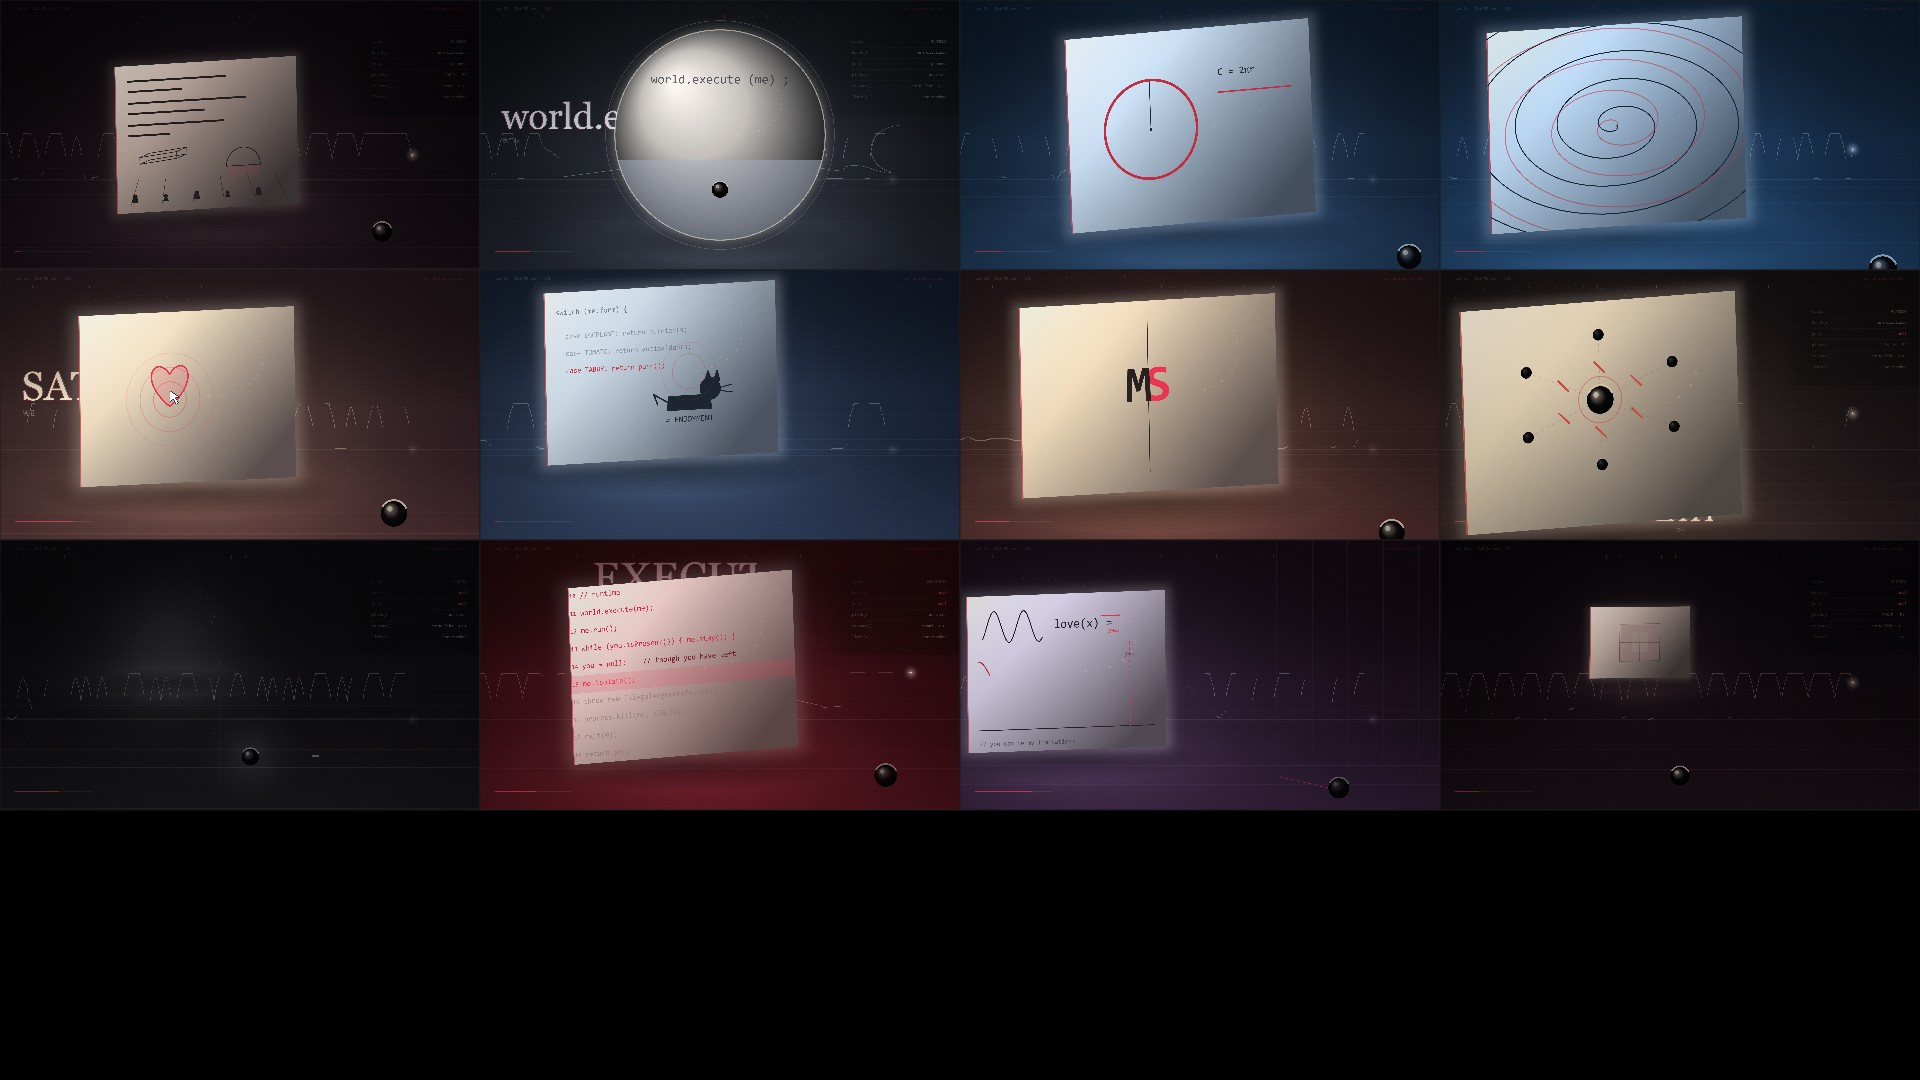
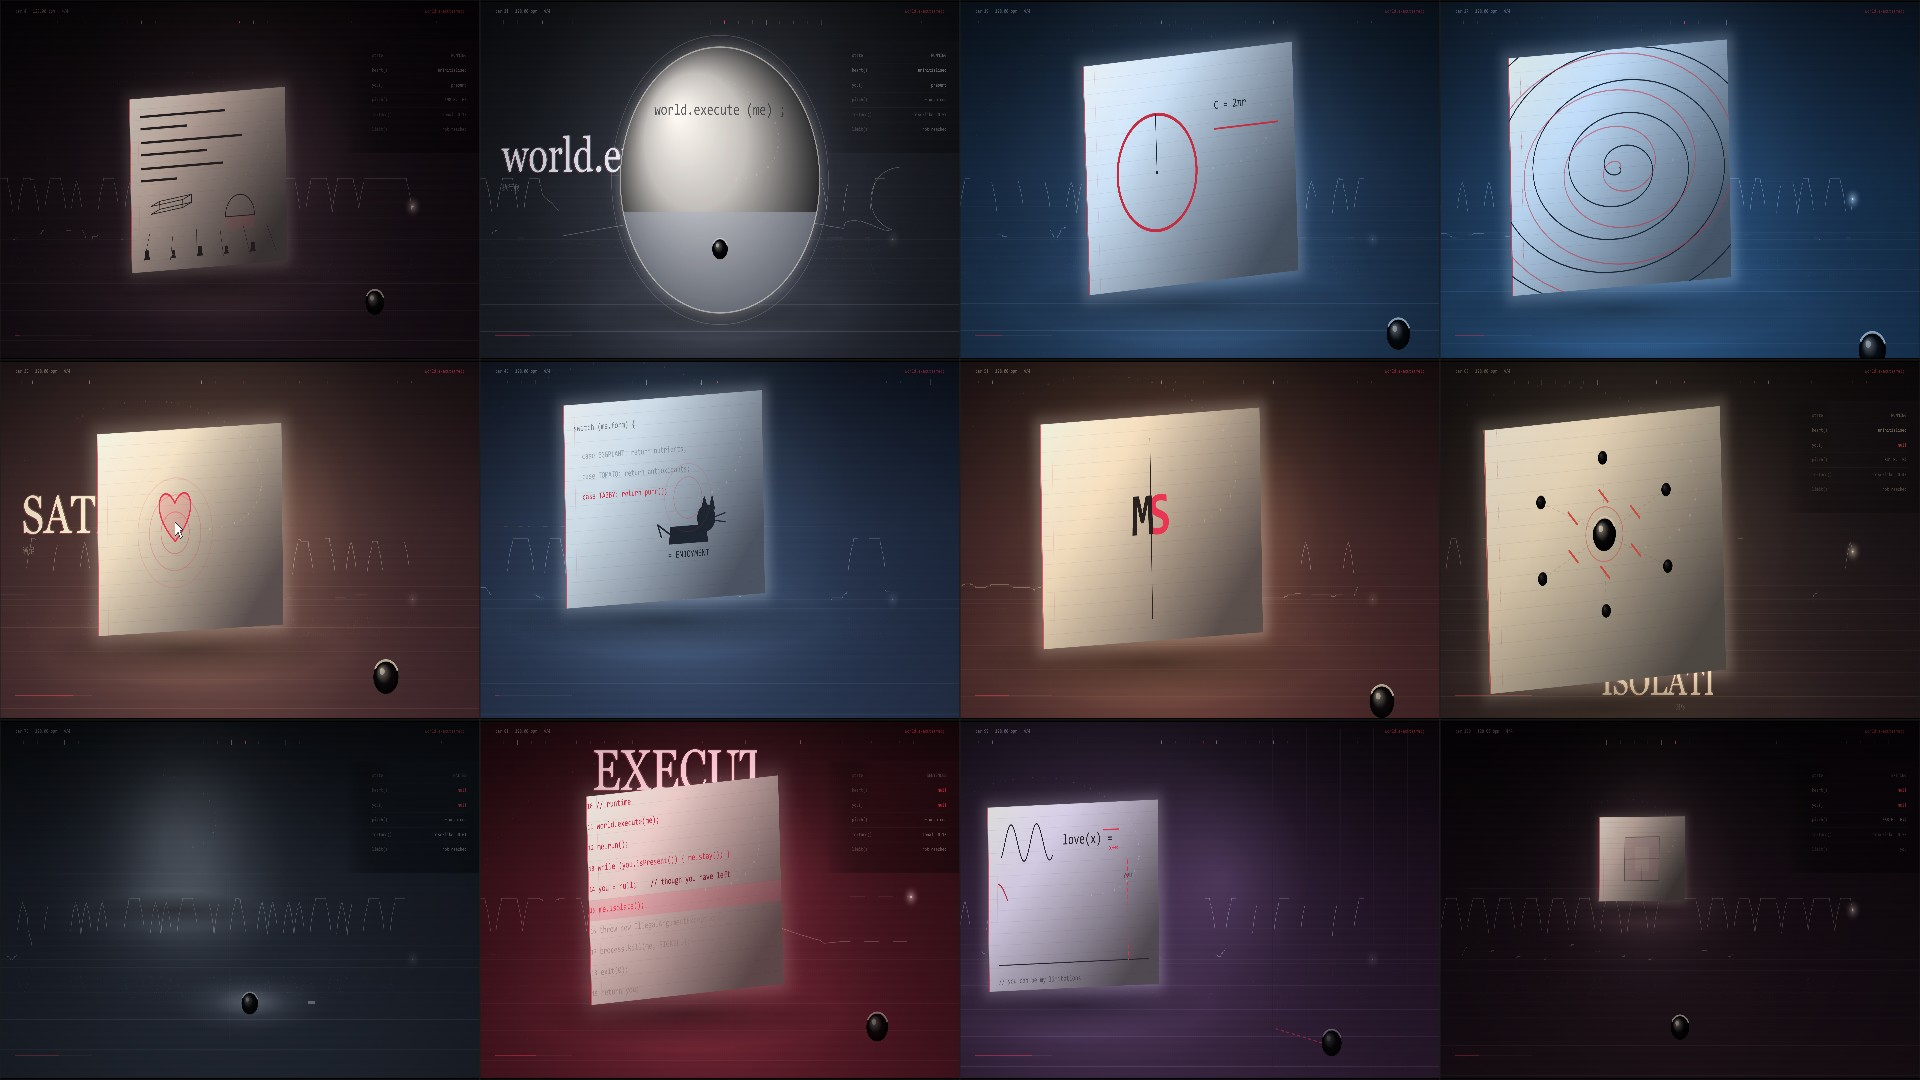
Let the floor disagree with the paper, and let the paper admit it is paper
Three things the render showed that the code did not.

The last source of flatness was structural: the floor grid lived in the design space, so
applyCamera scaled it along with the sheet and the two could never disagree about how the camera
moved - and a room in which nothing disagrees is a picture with no depth in it. The hall now
belongs to mv.js's drawRoom(t, cam), drawn in screen space outside the sheet's matrix: the
vanishing point answers cam.x, the horizon answers cam.y and cam.z, and the transverse bands take
their phase from cam.z, so a push-in makes the ground slide toward the lens. What stays in room()
is the paper's own light pool and its contact shadow - those travel with the sheet, which is
exactly the point: the sheet is an object standing in that room. Two seams closed by looking: the
sky and the floor now meet at one identical colour at the horizon, and the fan lines dropped from
0.3 to 0.13 because at full strength they burst into a starburst behind the board.

Shrinking the board to 0.76x0.84 gave the room air but turned the sparse shots - the S/M swap is
two letters and a line - back into a grey card. The fix was to stop hiding what it is: 16 rules at
7.5% ink and a red margin line. It adds no information and competes with nothing, and the sheet
reads as paper again.

The 131-147 s cell was the darkest thing in the film and had no reason to be. dusk came up off
[…]

diff --git a/mv/scenes.js b/mv/scenes.js
@@ -253,24 +253,10 @@ function room(g, col, F, t, L, o) {
   beam.addColorStop(1, 'rgba(0,0,0,0)');
   g.fillStyle = beam; g.fillRect(0, 0, DW, DH);
   g.restore();
-  /* the floor is a plane with a vanishing point, not a line. Head-on, one horizontal rule made
-     every shot the same flat stage; giving the ground a horizon lets the page and the node stand
-     at different distances from the lens, which is what the room has been missing. */
-  const hy = DH * 0.5, vpx = DW * 0.5;
-  g.strokeStyle = rgba(warm, 0.16 + col.lum * 0.13); g.lineWidth = 1.2;
-  for (let i = 1; i <= 13; i++) {
-    const u = i / 13, y = hy + (DH - hy) * u * u;
-    g.globalAlpha = u * u; G.line(g, 0, y, DW, y);
-  }
-  for (let i = -6; i <= 6; i++) {
-    /* the fan lines are the room's only straight perspective, so they have to stop short of the
-       frame edge — drawn full length they wireframe the whole picture and out-shout the diagram */
-    const run = i * DW * 0.19;
-    g.globalAlpha = 0.3 * (1 - Math.abs(i) / 7);
-    G.line(g, vpx, hy, vpx + run * 0.62, DH * 0.94);
-  }
-  g.globalAlpha = 1;
-  /* the sheet's light on the ground, and the shadow it casts back into */
+  /* the ground itself belongs to mv.js's hall, which is drawn in screen space so it can disagree
+     with the sheet about how the camera moved. What stays here is the paper's **own** light on the
+     floor, and the shadow under it — those travel with the sheet, which is what makes it an object
+     standing in that room rather than a card in front of a backdrop. */
   const base = Math.min(DH - 6, L.y + L.h);
   g.save(); g.globalCompositeOperation = 'lighter';
   const pool = g.createRadialGradient(cx, base, 0, cx, base, L.w * 1.1);
@@ -288,10 +274,6 @@ function room(g, col, F, t, L, o) {
   g.translate(cx, base); g.scale(1, 0.16); g.translate(-cx, -base);
   g.fillRect(cx - L.w * 0.62, base - L.w * 0.62, L.w * 1.24, L.w * 1.24);
   g.restore();
-  /* the far wall: the light dies before it reaches the top of the room */
-  const wall = g.createLinearGradient(0, 0, 0, hy);
-  wall.addColorStop(0, rgba(col.room0, 0.85)); wall.addColorStop(1, 'rgba(0,0,0,0)');
-  g.fillStyle = wall; g.fillRect(0, 0, DW, hy);
 }
 
 function page(g, col, L, o) {
@@ -310,7 +292,7 @@ function page(g, col, L, o) {
   const turn = side * 0.05 + (seed - 0.5) * 0.085 + (L.h / L.w - 0.55) * 0.04;
   const lean = -0.03 - side * 0.05 + (seed - 0.5) * 0.05;
   g.translate(mcx, mcy); g.transform(1, lean, 0, 1, 0, 0); g.rotate(turn);
-  g.scale(0.84, 0.9); g.translate(-mcx, -mcy);
+  g.scale(0.76, 0.84); g.translate(-mcx, -mcy);
   /* the cast bloom: a blurred copy of the sheet lying behind it */
   g.save(); g.filter = `blur(${o.blur === undefined ? 26 : o.blur}px)`;
   g.fillStyle = rgba(col.page, 0.15 + col.lum * 0.11);
@@ -323,6 +305,13 @@ function page(g, col, L, o) {
   pg.addColorStop(0.34, tint(col.page, col.glow, 0.26));
   pg.addColorStop(1, tint(col.page, col.room0, 0.74));
   g.fillStyle = pg; g.fillRect(L.x, L.y, L.w, L.h);
+  /* the sheet is ruled. Since the board got smaller, shots whose diagram is two letters and a
+     line showed the paper as a blank grey card; a faint rule says "this is a page" without
+     adding anything that competes with the ink drawn on it */
+  g.strokeStyle = rgba(INK, 0.075); g.lineWidth = 1;
+  for (let y = L.y + L.h / 16; y < L.y + L.h; y += L.h / 16) G.line(g, L.x, y, L.x + L.w, y);
+  g.strokeStyle = rgba(ACC, 0.16); g.lineWidth = 1;
+  G.line(g, L.x + L.w * 0.055, L.y, L.x + L.w * 0.055, L.y + L.h);
   if (o.rule !== false) { g.fillStyle = rgba(ACC, 0.8); g.fillRect(L.x, L.y, 3, L.h); }
   g.save();
   g.beginPath(); g.rect(L.x, L.y, L.w, L.h); g.clip();
@@ -882,11 +871,17 @@ S.push({ id: 'void', from: 131.22, to: 147.66,
        floor-pool of its own — otherwise "heap quiet" reads as an empty frame, not as a survivor */
     const px = DW * 0.56, py = GY - 20;
     g.save(); g.globalCompositeOperation = 'lighter';
-    const pool = g.createRadialGradient(px, py, 0, px, py, 190);
-    pool.addColorStop(0, rgba(RIM, 0.1 + F[8] * 0.06)); pool.addColorStop(1, 'rgba(0,0,0,0)');
-    g.fillStyle = pool; g.fillRect(px - 190, py - 190, 380, 380);
+    /* the pool is the last lamp in the film, so it has to light something: squashed onto the floor
+       plane and bright enough to rim the kneeling node, or "heap quiet" is just a black cell */
+    const pool = g.createRadialGradient(px, py, 0, px, py, 300);
+    pool.addColorStop(0, rgba(RIM, 0.26 + F[8] * 0.12));
+    pool.addColorStop(0.4, rgba(RIM, 0.09));
+    pool.addColorStop(1, 'rgba(0,0,0,0)');
+    g.fillStyle = pool;
+    g.translate(px, py); g.scale(1, 0.3); g.translate(-px, -py);
+    g.fillRect(px - 300, py - 300, 600, 600);
     g.restore();
-    G.subject(g, DW * 0.56, GY, 1.0, 'kneel', -1, F[8] * 0.18);
+    G.subject(g, DW * 0.56, GY, 1.0, 'kneel', -1, 0.4 + F[8] * 0.3);
     /* the caret still blinks — nobody is typing — but it breathes rather than switching,
        so a half-second gate cannot read as a one-frame flash */
     g.fillStyle = rgba(RIM, 0.22 + 0.3 * (0.5 + 0.5 * Math.sin(t * 3.1)));

diff --git a/mv/mv.js b/mv/mv.js
@@ -148,7 +148,7 @@ addEventListener('resize', resize);
    The 1.3 multiplier is the contact sheet's verdict: with the sheet fully visible the paper
    occupied under half of every frame and the rest was empty card. Zoomed past the plate, the
    frame is inside the paper and the letterbox is gone. */
-function fitScale() { return Math.min(W / DW, HH / DH) * 1.16; }
+function fitScale() { return Math.min(W / DW, HH / DH) * 1.1; }
 function applyCamera(g, fr, t) {
   /* The camera breathes with the bar, not with a clock: it eases in across the four beats and
      releases at the next downbeat, and the downbeat itself pushes by an amount taken from that
@@ -188,6 +188,7 @@ function actAt(t) {
   return t < ACTS[0].from ? 0 : ACTS.length - 1;
 }
 const hex = (s) => [parseInt(s.slice(1, 3), 16), parseInt(s.slice(3, 5), 16), parseInt(s.slice(5, 7), 16)];
+const rgba = (s, a) => { const c = hex(s); return `rgba(${c[0]},${c[1]},${c[2]},${a})`; };
 function mixColor(x, y, t) {
   const A = hex(x), B = hex(y);
   return '#' + A.map((v, i) => Math.round(lerp(v, B[i], clamp01(t))).toString(16).padStart(2, '0')).join('');
@@ -217,13 +218,46 @@ function updatePalette(t, dt) {
 /* ---------------- layers ---------------- */
 /* The room. mv.js paints only what the light cannot reach — a near-black vertical gradient —
    and each scene adds its own lamp, because the lamp is wherever that scene's page is. */
-function drawRoom(t) {
-  const g = bx.createLinearGradient(0, 0, 0, HH);
-  g.addColorStop(0, pal.room0);
-  g.addColorStop(0.7, mixColor(pal.room0, pal.room1, 0.24 + env * 0.5));
-  g.addColorStop(1, pal.room1);
-  bx.setTransform(1, 0, 0, 1, 0, 0);
-  bx.fillStyle = g; bx.fillRect(0, 0, W, HH);
+function drawRoom(t, cam) {
+  const g = bx;
+  g.setTransform(1, 0, 0, 1, 0, 0);
+  /* The hall is drawn in **screen** space, deliberately outside the sheet's camera matrix. Until
+     now the floor belonged to the design space, so it slid along with the paper and the two could
+     never disagree — and a room where nothing disagrees about the camera is a flat picture. Drawn
+     here, the grid answers the pedestal and the dolly on its own terms: parallax. */
+  const hy = HH * (0.47 + (cam.z - 1.12) * 0.17) - (cam.y / DH - 0.5) * HH * 0.16;
+  const vx = W * 0.5 - (cam.x / DW - 0.5) * W * 0.55;
+  const seam = mixColor(pal.room1, pal.room0, 0.45);
+  const sky = g.createLinearGradient(0, 0, 0, hy);
+  sky.addColorStop(0, mixColor(pal.room0, '#000000', 0.45));
+  sky.addColorStop(1, seam);
+  g.fillStyle = sky; g.fillRect(0, 0, W, Math.max(0, hy));
+  const grd = g.createLinearGradient(0, hy, 0, HH);
+  grd.addColorStop(0, seam);
+  grd.addColorStop(1, pal.room1);
+  g.fillStyle = grd; g.fillRect(0, Math.max(0, hy), W, HH - Math.max(0, hy));
+  /* the lamp at the end of the hall */
+  g.save(); g.globalCompositeOperation = 'lighter';
+  const kx = vx + Math.sin(t * 0.21) * W * 0.06;
+  const bloom = g.createRadialGradient(kx, hy - HH * 0.02, 0, kx, hy - HH * 0.02, HH * 0.78);
+  bloom.addColorStop(0, rgba(pal.glow, 0.1 + pal.lum * 0.1 + env * 0.07));
+  bloom.addColorStop(0.4, rgba(pal.glow, 0.03));
+  bloom.addColorStop(1, 'rgba(0,0,0,0)');
+  g.fillStyle = bloom; g.fillRect(0, 0, W, HH); g.restore();
+  const N = 12, phase = (cam.z * 3.4) % 1;
+  g.strokeStyle = rgba(pal.glow, 0.16 + pal.lum * 0.1);
+  for (let i = 0; i < N; i++) {
+    const u = (i + phase) / N, y = hy + (HH - hy) * u * u;
+    g.globalAlpha = u * u; g.lineWidth = 0.8 + u * 1.8;
+    g.beginPath(); g.moveTo(0, y); g.lineTo(W, y); g.stroke();
+  }
+  for (let i = -7; i <= 7; i++) {
+    /* the fan is the only thing that says "these bands are a plane", but full strength it reads as
+       a starburst behind the sheet and competes with the diagram */
+    g.globalAlpha = 0.13 * (1 - Math.abs(i) / 8); g.lineWidth = 1;
+    g.beginPath(); g.moveTo(vx, hy); g.lineTo(vx + i * W * 0.2, HH * 0.9); g.stroke();
+  }
+  g.globalAlpha = 1;
 }
 
 /* One camera for the whole film. Each scene proposes a framing; at a cut the camera
@@ -511,10 +545,10 @@ function render(ts) {
   sample(t);
   updatePalette(t, Math.min(0.5, wall));
   advanceClock(t, dt);
-  drawRoom(t);
   let idx = SCENES.findIndex(s => t >= s.from && t < s.to);
   if (idx < 0) idx = SCENES.length - 1;
   const cam = cameraFor(t);
+  drawRoom(t, cam);
   /* the two layers that come from the recording go in *behind* the sheet. The paper is the light
      source, so the stroke and the word belong to the room and the page covers whatever runs
      behind it — the word reads as emerging out of the light, not as an overlay on top of it. */

diff --git a/mv/story.js b/mv/story.js
@@ -35,7 +35,7 @@ window.STORY = {
     /* you have left: the lamp browns and drops */
     collapse:  { room0: '#08070a', room1: '#141114', page: '#ddd0b8', ink: '#2b2419', accent: '#a8402c', rim: '#b9a98d', glow: '#8c7a5e', lum: 0.40 },
     /* nothing scheduled: barely lit, the page is almost out of the room */
-    dusk:      { room0: '#050608', room1: '#0b0e12', page: '#9fa4a6', ink: '#171a1c', accent: '#7c2a38', rim: '#7e8a96', glow: '#5f6f7e', lum: 0.20 },
+    dusk:      { room0: '#0a1017', room1: '#182533', page: '#9fa4a6', ink: '#171a1c', accent: '#7c2a38', rim: '#8ea2b6', glow: '#7d94ab', lum: 0.24 },
     /* EXECUTION: the room turns the colour of the verdict, and the page is the warrant */
     execution: { room0: '#2a0509', room1: '#5c0d18', page: '#f3ece0', ink: '#2a0d14', accent: '#ff2d55', rim: '#e8b8c0', glow: '#b3263a', lum: 0.30 },
     /* the answer: a pale violet-cold light, gentler than the verses */

diff --git a/README.md b/README.md
@@ -308,14 +308,10 @@ boot / theorem / condition / flesh / absence / execution / love。
 ## 第六次：病根不是构图，是画面里没有空间
 
 你说"效果好差"。这次我不再猜自己哪里不好看，做了一张**差分图**：把 69.22 与 69.30 两帧逐像素相减、
-放大四倍存盘（`analysis/frame-telemetry.jpg` 同一套办法）。差分把病根直接摊开了——整幅画是
-**一张灰卡片上的等粗墨线**，纸是一个占满画面的亮矩形，唱到的大字只占角落一个字母
-（`analysis/frame-diff69.jpg`，两帧相减 ×4；它是**改之前**的诊断图，所以保留了应用内的小舞台尺寸）。
-改完之后同一对时间戳再相减（`analysis/frame-diff69-after.jpg`，2400×1350）：房间那一层几乎不再产生
-差异，差异集中在板子内部（字被擦出来、光标、心、播放三角）和本来就在动的几个元素上。
-但板子自身仍蒙着一层匀灰底噪——它的亮度被响度逐帧调制，整张纸每一帧都在整体变亮或变暗，
-这是下一轮要收拾的。
-指标全绿（运动均值 0.52、无未归因闪现），画面仍然是死的。指标测不出"没有空间"。
+放大四倍存盘（`analysis/frame-diff69.jpg`；它是**改之前**的诊断图，所以保留了应用内的小舞台尺寸）。
+差分把病根直接摊开了——整幅画是**一张灰卡片上的等粗墨线**，纸是一个占满画面的亮矩形，
+唱到的大字只占角落一个字母。指标全绿（运动均值 0.52、无未归因闪现），画面仍然是死的。
+指标测不出"没有空间"。
 
 先立一个带透视的候选 `analysis/space.html`：针孔投影 `k = F/dz`、体积球、地格、深度雾、
 透视字墙，摄影机沿 z 轴前进、高度跟着她唱出的音高走。九格联系表给出的结论是**双向**的：
@@ -348,6 +344,38 @@ boot / theorem / condition / flesh / absence / execution / love。
 动得少了，而是因为不再有一整张白卡在镜头里晃；boot 段细节密度 **63.1 → 42.7**、主歌 **53.4 → 36.4**，
 "一帧里同时有多少东西"这一项自己降了下来。代价也记一笔：全帧扫描从 183 秒变成 664 秒，
 每帧多了十几个径向渐变和一次模糊——渲染成本翻了约 2.7 倍。
+
+### 同一轮里的三处后续
+
+**改后差分**。把同一对时间戳再相减（`analysis/frame-diff69-after.jpg`，2400×1350）：房间那一层几乎
+不再产生差异，差异集中在板子内部（字被擦出来、光标、心、播放三角）和本来就在动的几个元素上。
+板子内部仍蒙着一层匀灰，我第一反应是"它的亮度被响度逐帧调制"——**量了一下，不是**：相邻两帧平均差
+2.43，隔八帧 15.09，随时间线性累积，所以那是那块大渐变跟着摄影机做亚像素呼吸（校验曲线量到副歌段
+运动均值 0.2、峰值 5，本来就不算闪现）。它真正说明的是另一件事：**板子还是太大**，任何一点镜头运动
+都会让整幅画重写一遍。
+
+**缩下去之后才露出来的问题**。板子再缩一档（0.84×0.9 → **0.76×0.84**，取景 ×1.16 → **×1.1**），
+房间终于有位置呼吸，但 96 秒那一镜（♀♂ 换位：两个字母加一条竖线）变成了一张灰卡——板子小了，
+纸上的内容没跟着变密。修法是回到"这是一张纸"：给纸打上**格线**（16 行 7.5% 的淡墨 + 一条红色页边线）。
+它不新增任何信息、不与墨线争，但一眼就能认出是纸（`analysis/frame-ruled-paper.jpg`）。
+
+**联系表上那格死黑**。131–147 秒细节密度 14.7，全片最低。"房间没了灯"是对的，但 16 秒空黑是片子里
+的洞。三下补齐：`dusk` 色板从近黑提到冷暗（`room1 #0b0e12 → #182533`、`glow #5f6f7e → #7d94ab`）；
+地上那团光**压扁到地平面上**（scale y 0.3）并加亮到 0.26；跪着的节点不再只靠响度取光，改成
+`0.4 + rms*0.3`——它终于被自己那团光照到（`frame-room-lit.jpg` 第 9 格）。
+
+**最后一层平面感：地面和纸共用同一个矩阵**。`room()` 里那张地格是画在设计空间的，而设计空间整体
+被 `applyCamera` 缩放平移——于是地板永远跟着纸一起动，两者永远不会不一致，而**一个"没有任何东西
+在镜头运动上持不同意见"的房间，就是一张平图**。把大厅搬到 `mv.js` 的 `drawRoom(t, cam)`，画在
+**屏幕空间**、在纸的相机矩阵之外：灭点跟着 `cam.x` 走、地平线跟着 `cam.y` 与 `cam.z` 走、横向光带
+的相位由 `cam.z` 驱动（推镜头时它们朝镜头滑过来）。`room()` 只留下属于纸的那部分——地上的光池与
+接触阴影——它们跟着纸走，正好说明纸是**站在那个房间里的一件东西**。
+两处按渲染结果收的口子：天空与地面在 `hy` 处必须交于**同一个颜色**，否则画面上出现一道硬接缝；
+扇形线从 0.3 降到 0.13，全强度时它在纸后面炸成一朵星芒，抢过图。
+
+**这一轮结束时重扫 25,429 帧：仍然 0 未归因闪现**（23 个尖峰＝10 溶解 + 13 硬切）。
+死黑那一格抬起来了：`dusk` 段最低亮度 31 → 39、细节密度 14.7 → 17.9，`outro` 29 → 36——
+最暗的地方不再是"什么都没有"，而是一团光落在地上的房间。
 
 ## 三次返工：从可视化到一间暗房
 
